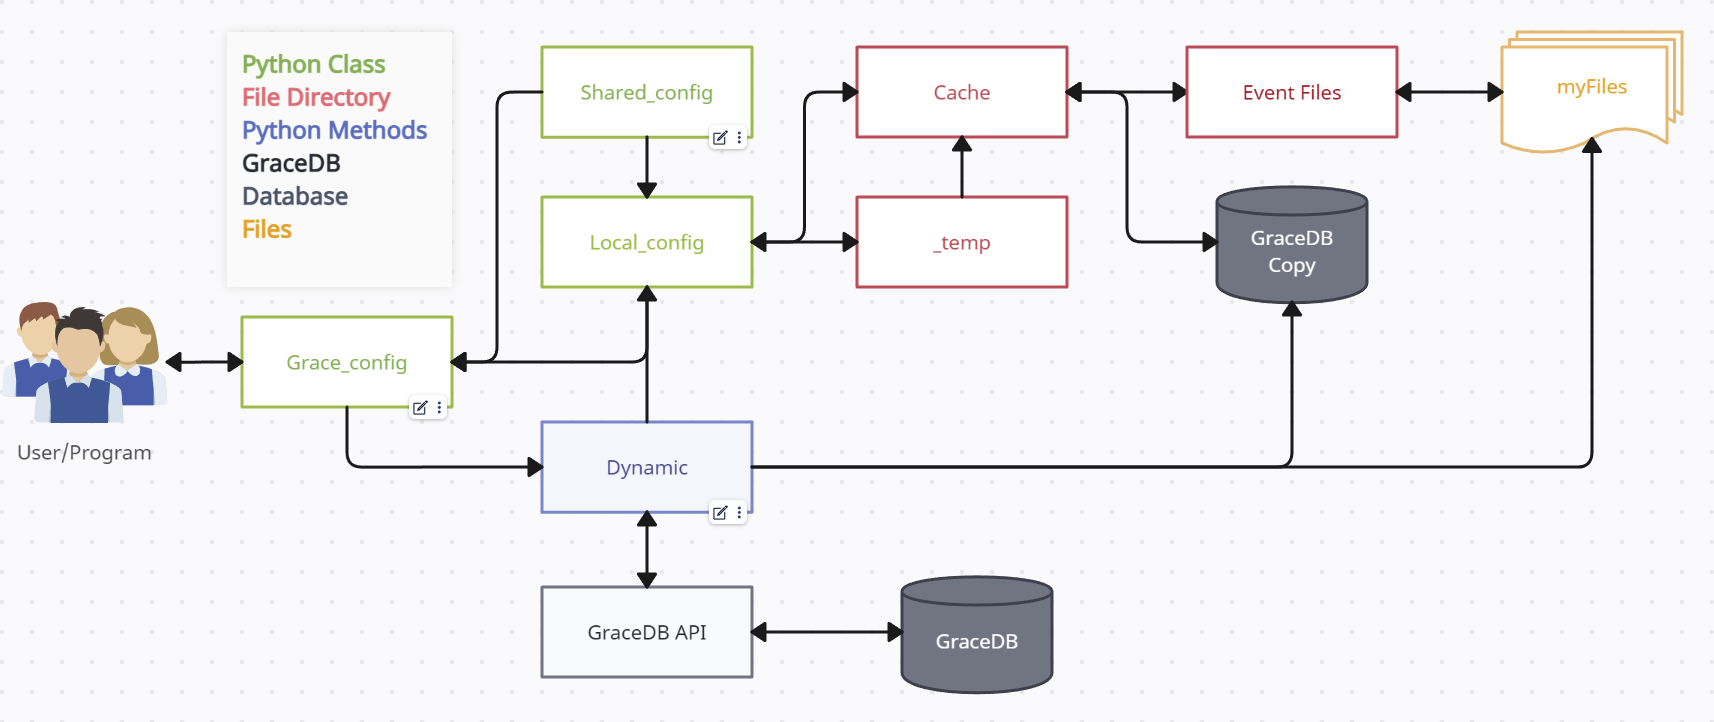
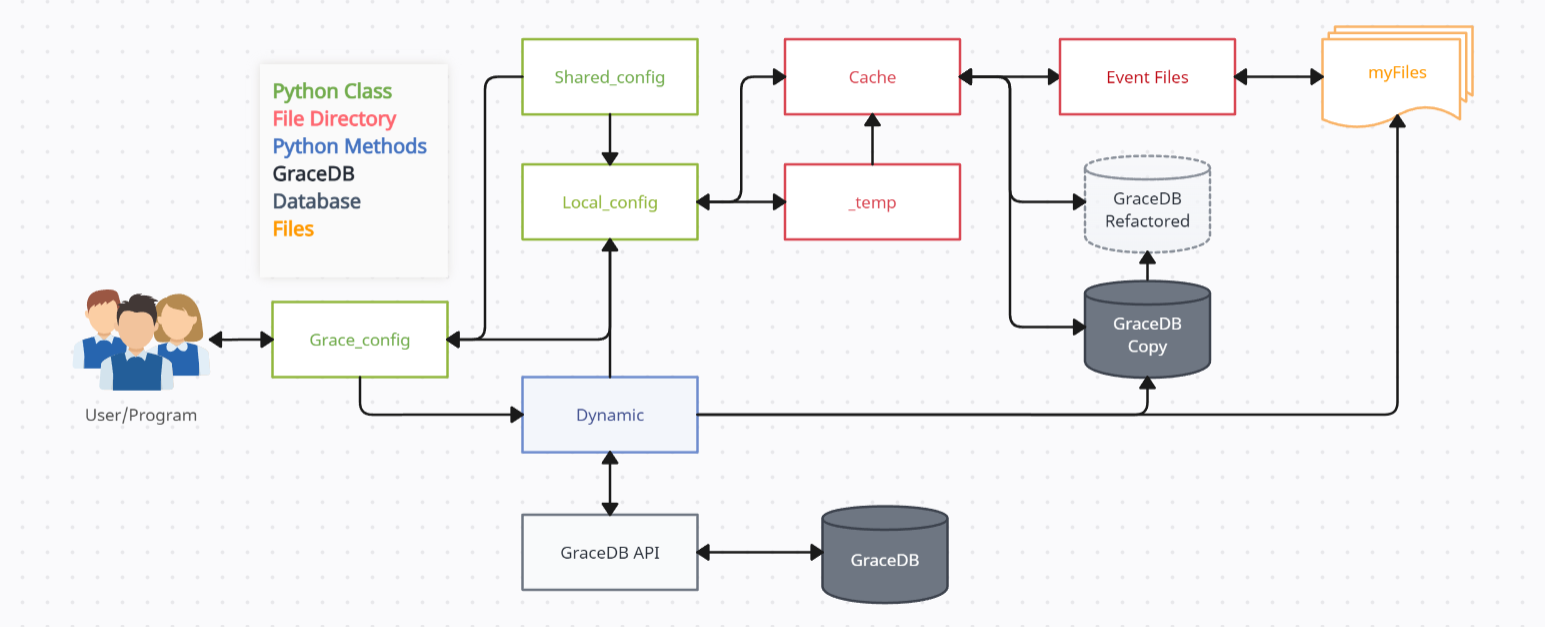
added refactored DB in flowchart

Changed region(s): [[0.0, 0.0303, 0.9942, 0.9697], [0.1243, 0.0606, 0.2796, 0.3939]]

diff --git a/readme.md b/readme.md
@@ -4,7 +4,7 @@
 
 The GraceDB-public package uses the official GraceDB API to communicate with the public portion of the database. The GraceDB-public package is part of the Gravitational Wave SkyMap Stellarium plug-in project. It is used in collecting the list of GraceDB ‘Superevents’ and skymaps attached to them.
 
-## Flow Chart
+## Flowchart
 
 ![Gracedb_public_flowchart.png](Gracedb_public_flowchart.png)
 
